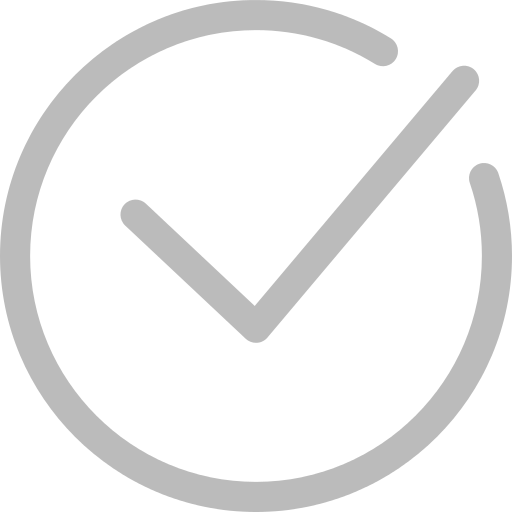
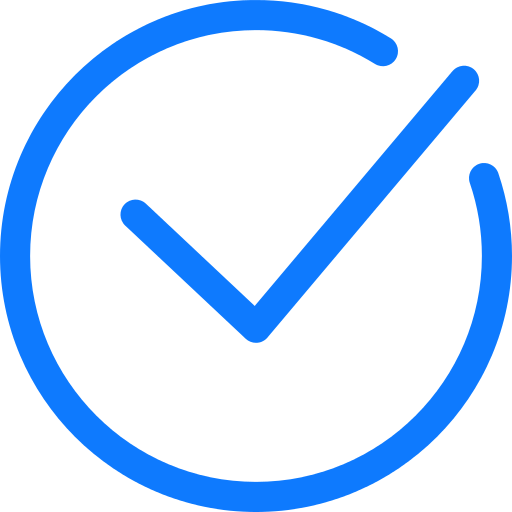
Update interface to give it a more modern look

Changed region(s): [[0.0, 0.0, 1.0, 1.0], [0.2188, 0.125, 0.9375, 0.6875]]

diff --git a/FrontEnd/src/main/resources/Application.css b/FrontEnd/src/main/resources/Application.css
@@ -1,23 +1,33 @@
 .application {
     -fx-background-color: #ffffff;
 }
-
 .drop-file-chooser {
-    -fx-background-color: #eeeeee;
+    -fx-background-color: #ffffff;
     -fx-background-radius: 20px;
 
     -fx-border-style: dashed;
-    -fx-border-color: #bbbbbb;
-    -fx-border-width: 8px;
+    -fx-border-color: #0e7afe;
+    -fx-border-width: 2px;
     -fx-border-radius: 20px;
-
-    -fx-effect: innershadow(gaussian, #000000, 10, 0.0, 0, 0);
 
     -fx-cursor: hand;
 }
 
 .transform-button {
     -fx-font-size: 20px;
-    -fx-effect: dropshadow(gaussian, #00000022, 10, 0.0, 0, 5);
+    -fx-font-weight: bold;
     -fx-border-width: 0px;
+    -fx-background-color: #0e7afe;
+    -fx-text-fill: #ffffff;
+}
+
+.transform-button:hover {
+    -fx-background-color: #2488fe;
+}
+
+.transform-button:pressed {
+    -fx-background-color: #4fa1fe;
+}
+.transform-button:disabled {
+    -fx-background-color: #bbbbbb;
 }

diff --git a/FrontEnd/src/main/java/nl/mikero/turntopassage/frontend/view/ApplicationView.java b/FrontEnd/src/main/java/nl/mikero/turntopassage/frontend/view/ApplicationView.java
@@ -59,15 +59,12 @@ public class ApplicationView {
         FileChooser.ExtensionFilter extensionFilter = new FileChooser.ExtensionFilter("HTML Files (*.html, *.htm, *.xhtml)", "*.html", "*.htm", "*.xhtml");
         dropFileChooser.getExtensionFilters().add(extensionFilter);
 
+        transformButton.setDisable(true);
         dropFileChooser.fileProperty().addListener((observable, oldValue, newValue) -> {
             if(newValue != null) {
                 transformButton.setDisable(false);
             }
         });
-    }
-
-    public void onAutomaticTransformStatusMouseClicked(Event event) {
-
     }
 
     public void onTransformButtonClicked(ActionEvent actionEvent) {
@@ -97,10 +94,12 @@ public class ApplicationView {
             if(newException instanceof FileNotFoundException) {
                 String title = String.format("File '%s' could not be found.", inputFile.toString());
 
-                errorAlert.setAlertType(Alert.AlertType.CONFIRMATION);
+                errorAlert.setAlertType(Alert.AlertType.ERROR);
                 errorAlert.setTitle(title);
                 errorAlert.setHeaderText(title);
                 errorAlert.setContentText(title + " Do you want to select a different file and try again?");
+                errorAlert.getButtonTypes().setAll(ButtonType.OK, ButtonType.CANCEL);
+
                 Optional<ButtonType> result = errorAlert.showAndWait();
                 if(result.isPresent() && result.get() == ButtonType.OK) {
                     dropFileChooser.openFileChooser();
@@ -112,6 +111,8 @@ public class ApplicationView {
                 errorAlert.setTitle(title);
                 errorAlert.setHeaderText(title);
                 errorAlert.setContentText(title + " The file might be in a format that TurnToPassage does not understand. Do you want to select a different file and try again?");
+                errorAlert.getButtonTypes().setAll(ButtonType.OK, ButtonType.CANCEL);
+
                 Optional<ButtonType> result = errorAlert.showAndWait();
                 if(result.isPresent() && result.get() == ButtonType.OK) {
                     dropFileChooser.openFileChooser();
